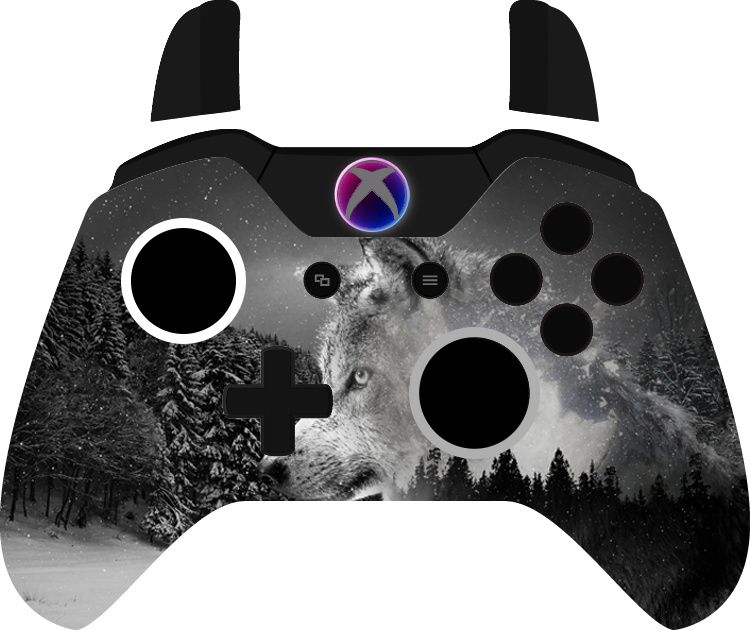
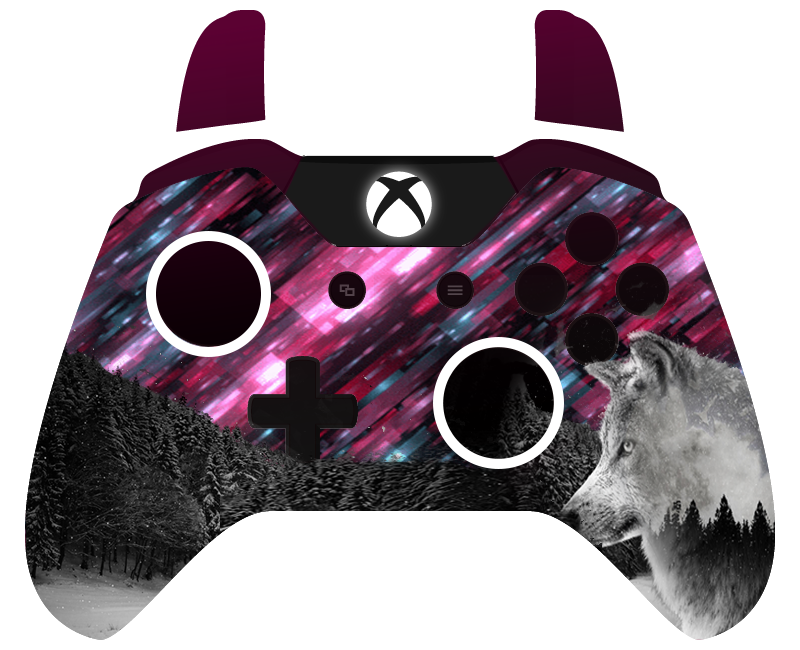
Add files via upload

diff --git a/Final/final2.css b/Final/final2.css
@@ -1,0 +1,250 @@
+.controller.xbox {
+    background: url(base-mod.png);
+    height: 630px;
+    width: 750px;
+    /*    margin-left: -375px;
+        margin-top: -285px;*/
+}
+
+
+
+.xbox.disconnected {
+    background: url(xbox-assets/disconnected.svgz);
+}
+
+
+.xbox .triggers {
+    width: 446px;
+    height: 121px;
+    position: absolute;
+    left: 152px;
+}
+
+.xbox .trigger {
+    width: 88px;
+    height: 121px;
+    background: url(trigger.png);
+    opacity: 0;
+}
+
+.xbox .trigger.left {
+    float: left;
+    background-position: 0 0;
+}
+
+.xbox .trigger.right {
+    float: right;
+    transform: rotateY(180deg);
+}
+
+.xbox .bumper {
+    width: 170px;
+    height: 61px;
+    background: url(bumper.png);
+    opacity: 0;
+}
+
+.xbox .bumpers {
+    position: absolute;
+    width: 536px;
+    height: 61px;
+    left: 107px;
+    top: 129px;
+}
+
+.xbox .bumper.pressed {
+    opacity: 1;
+}
+
+.xbox .bumper.left {
+    float: left;
+}
+
+.xbox .bumper.right {
+    float: right;
+    -webkit-transform: rotateY(180deg);
+    transform: rotateY(180deg);
+}
+
+.xbox .quadrant {
+    position: absolute;
+    background: url(xbox-assets/quadrant.svgz);
+    height: 45px;
+    width: 45px;
+    top: 258px;
+    left: 354px;
+    z-index: 0;
+}
+
+.xbox .p0 {
+    -webkit-transform: rotate(0deg);
+    transform: rotate(0deg);
+}
+
+.xbox .p1 {
+    -webkit-transform: rotate(90deg);
+    transform: rotate(90deg);
+}
+
+.xbox .p2 {
+    -webkit-transform: rotate(270deg);
+    transform: rotate(270deg);
+}
+
+.xbox .p3 {
+    -webkit-transform: rotate(180deg);
+    transform: rotate(180deg);
+}
+
+.xbox .arrows {
+    position: absolute;
+    width: 141px;
+    height: 33px;
+    top: 264px;
+    left: 306px;
+}
+
+.xbox .back, .xbox .start {
+    background: url(xbox-assets/start-select.svgz);
+    width: 33px;
+    height: 33px;
+    opacity: 0;
+}
+
+.xbox .back.pressed, .xbox .start.pressed {
+    opacity: 1;
+}
+
+.xbox .back {
+    float: left;
+}
+
+.xbox .start {
+    background-position: 33px 0px;
+    float: right;
+}
+
+.xbox .abxy {
+    position: absolute;
+    width: 153px;
+    height: 156px;
+    top: 192px;
+    left: 488px;
+}
+
+.xbox .button {
+    position: absolute;
+    background: url(abxymod.png);
+    width: 48px;
+    height: 48px;
+}
+
+.xbox .button.pressed {
+    background-position-y: -48px;
+    margin-top: 5px;
+    opacity: 1;
+}
+
+.xbox .a {
+    background-position: 0 0;
+    top: 108px;
+    left: 55px;
+}
+
+.xbox .b {
+    background-position: -49px 0;
+    top: 58px;
+    right: 0px;
+}
+
+.xbox .x {
+    background-position: -98px 0;
+    top: 58px;
+    left: 4px;
+}
+
+.xbox .y {
+    background-position: 48px 0;
+    left: 55px;
+    top: 7px;
+}
+
+.xbox .sticks {
+    position: absolute;
+    width: 371px;
+    height: 196px;
+    top: 239px;
+    left: 144px;
+}
+
+.xbox .stick {
+    position: absolute;
+    background: url(stickmod.png);
+    background-position: -85px 0;
+    height: 83px;
+    width: 83px;
+}
+
+.xbox .stick.pressed {
+    background-position: 0 0;
+}
+
+.xbox .stick.left {
+    top: 0;
+    left: 0;
+}
+
+.xbox .stick.right {
+    top: 113px;
+    left: 288px;
+}
+
+.xbox .dpad {
+    position: absolute;
+    width: 110px;
+    height: 111px;
+    top: 345px;
+    left: 223px;
+}
+
+.xbox .face {
+    background: url(dpadmod.png);
+    position: absolute;
+    opacity: 0;
+}
+
+.xbox .face.pressed {
+    opacity: 1;
+}
+
+.xbox .face.up {
+    background-position: 34px 0;
+    left: 38px;
+    top: 0px;
+    width: 34px;
+    height: 56px;
+}
+
+.xbox .face.down {
+    left: 38px;
+    bottom: 0;
+    width: 34px;
+    height: 56px;
+}
+
+.xbox .face.left {
+    background-position: 0 -93px;
+    width: 55px;
+    height: 35px;
+    top: 38px;
+    left: 0;
+}
+
+.xbox .face.right {
+    background-position: 0 -57px;
+    width: 55px;
+    height: 35px;
+    top: 38px;
+    right: 0;
+}
+
